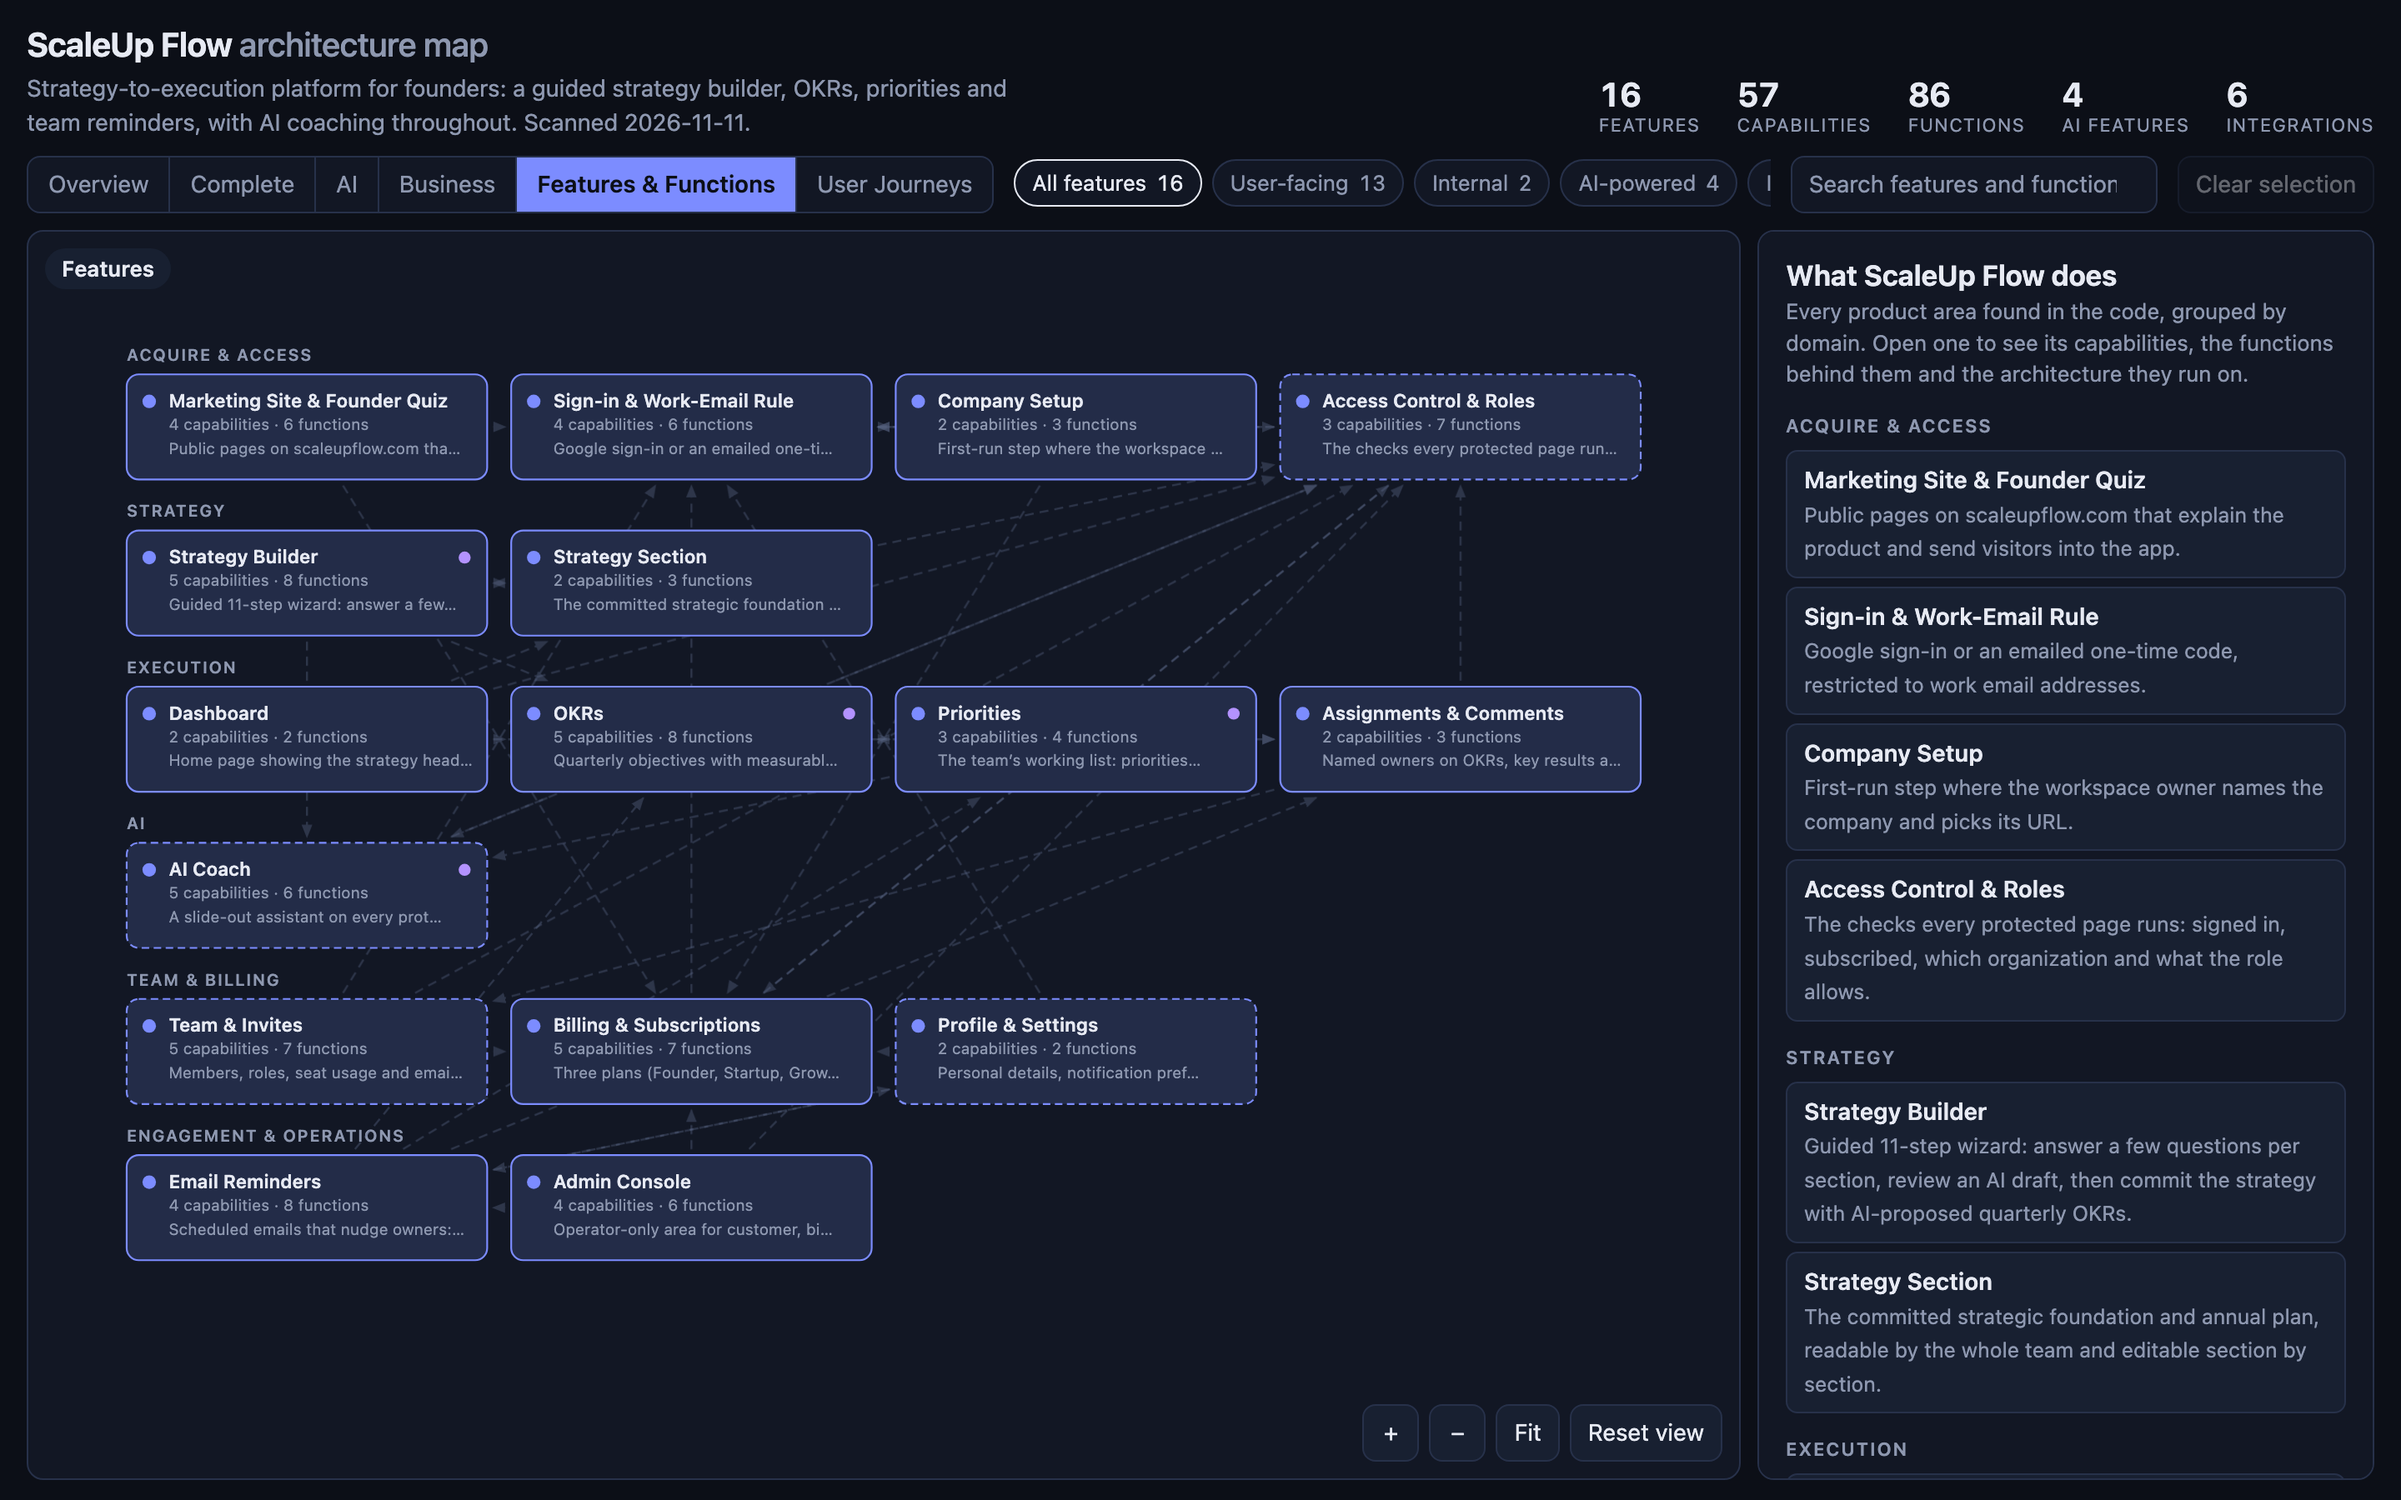
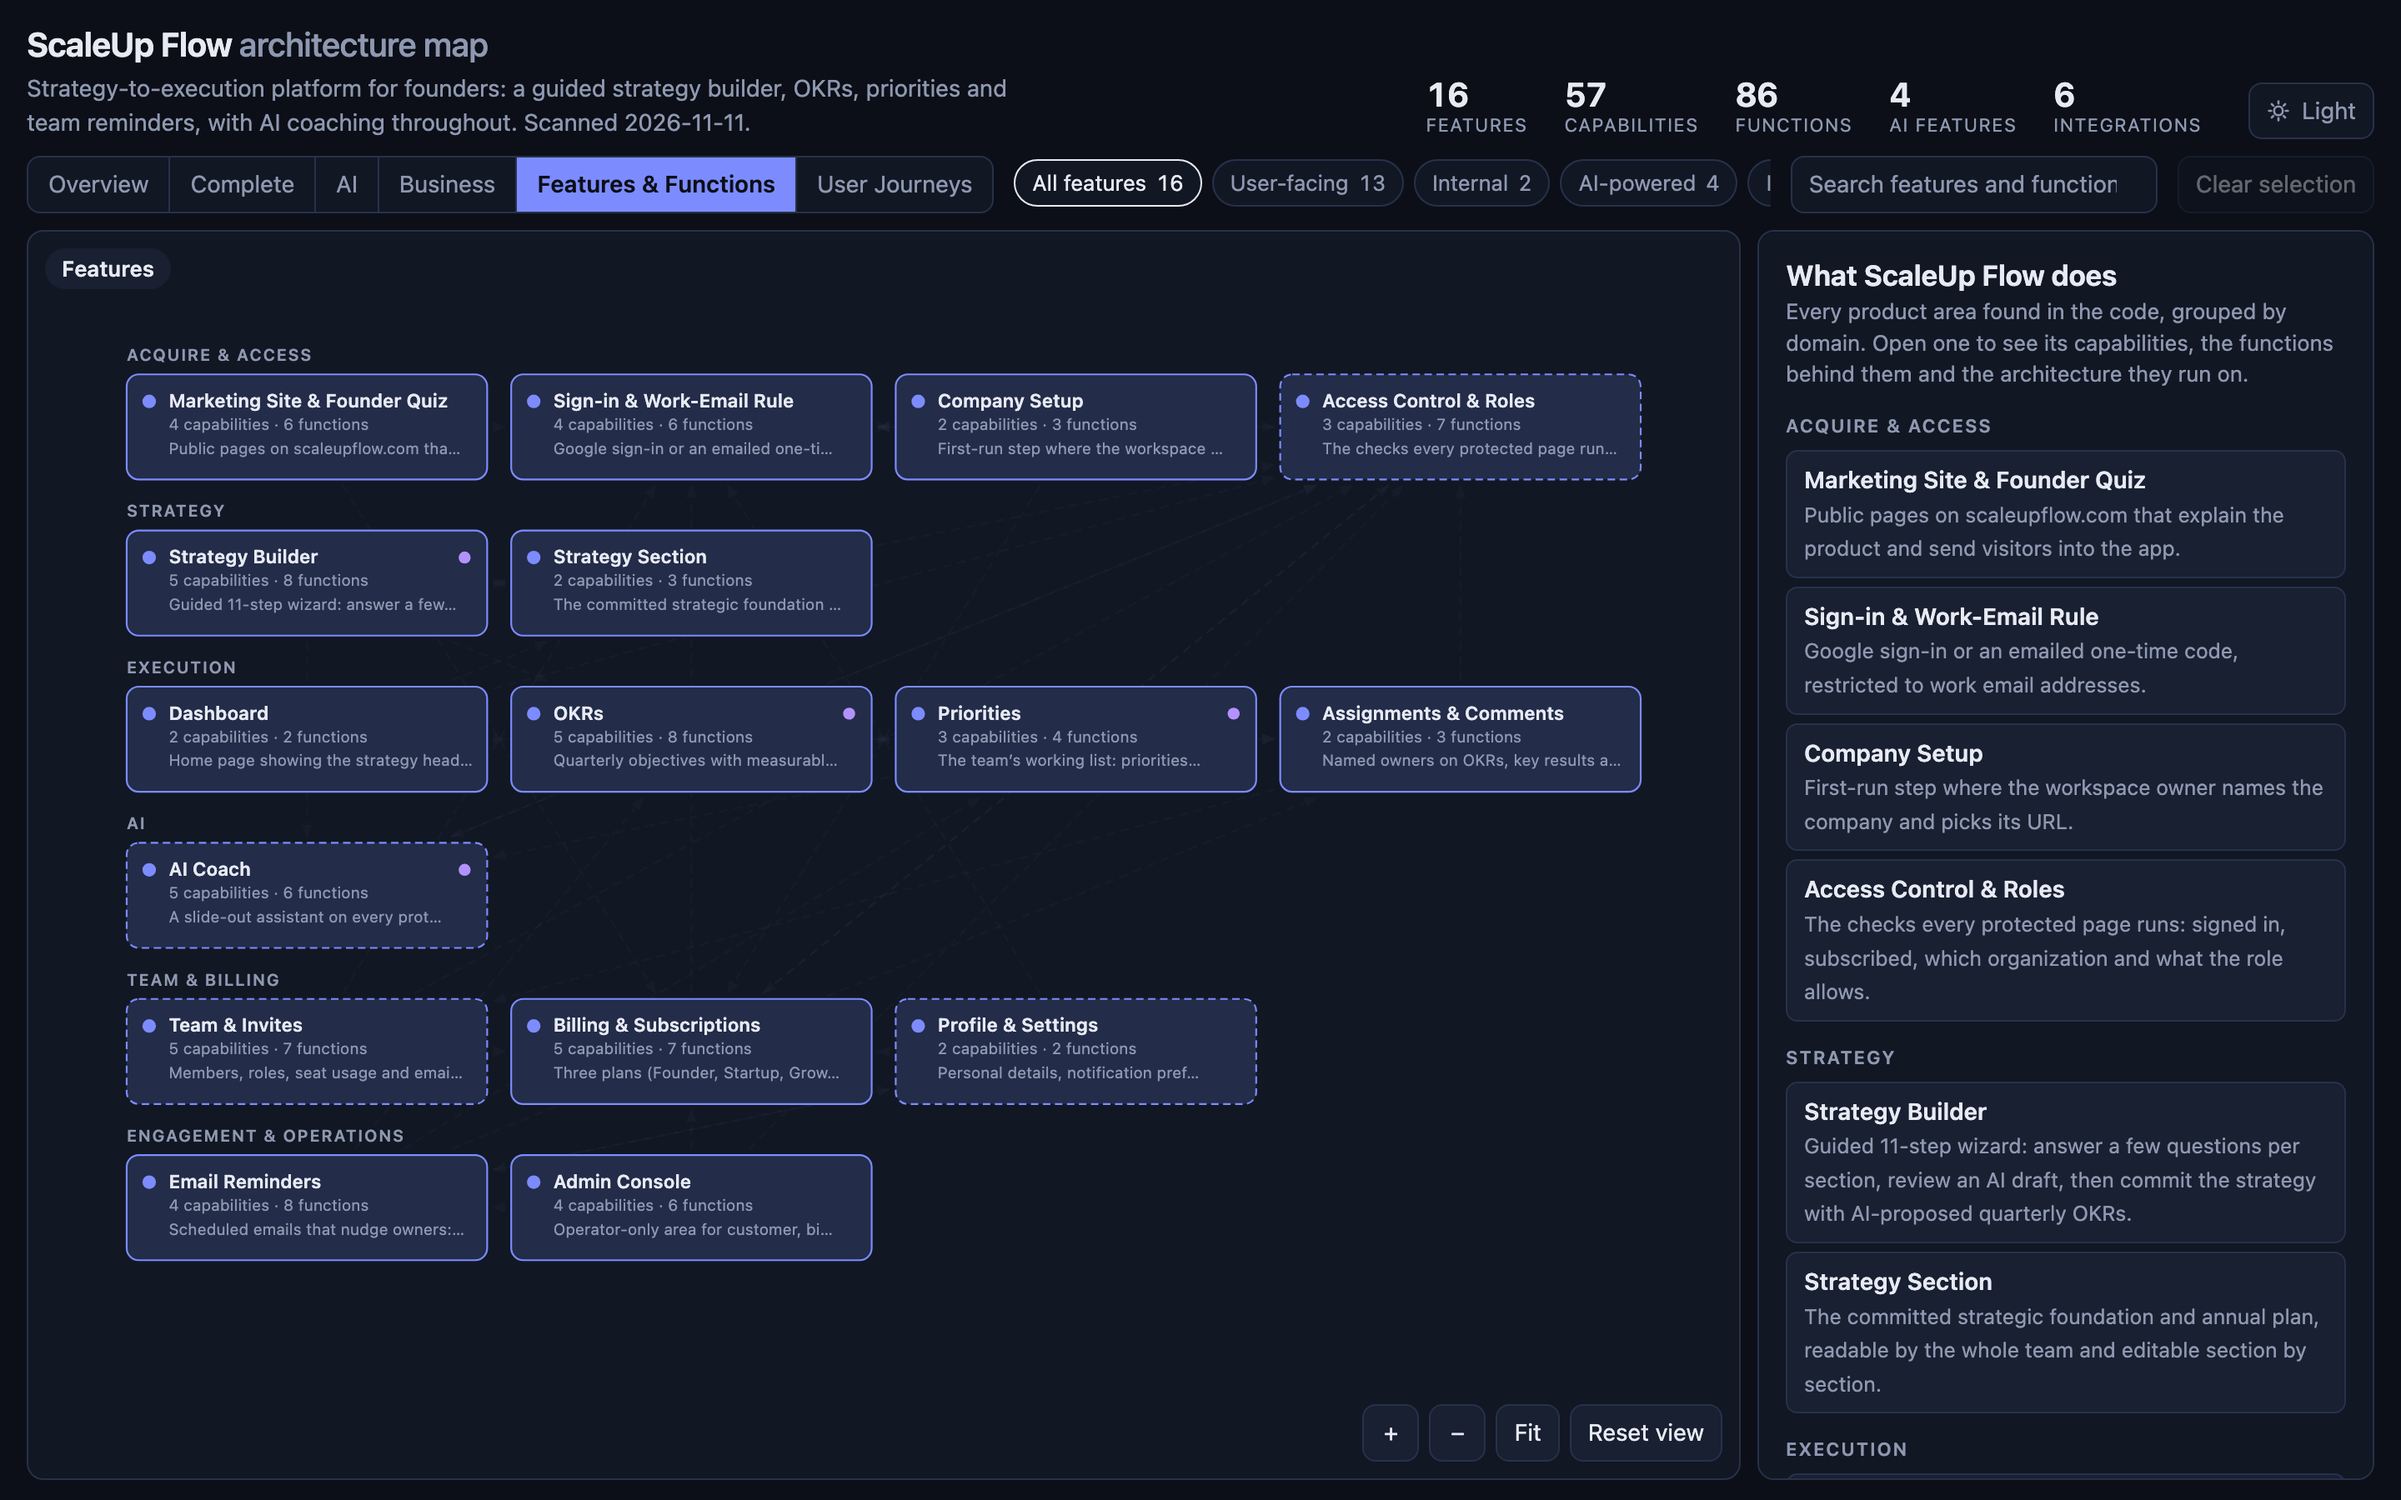
Add a light/dark switch to the explorer page
The page was dark unless the viewer's Claude theme was explicitly set
to light, and ignored the system setting. A small script at the top of
the template now picks the theme before first paint: the viewer's pick
from a new header button, then their Claude theme, then their system
setting. The pick is kept in the viewer's browser, and picking the
theme the page would show anyway clears it.

Light tokens move from :root[data-theme="light"] to
:root[data-mode="light"]; doctor and snapshot follow. The smoke test
covers the switch, and the stand-in browser gives the page its own
storage and a root element that keeps attributes. Retake the README
screenshots with the button, add a light overview, and bump the plugin
to 0.2.0.

Changed region(s): [[0.7188, 0.0311, 1.0, 0.0933], [0.6562, 0.0311, 0.6875, 0.0933], [0.5938, 0.0622, 0.625, 0.0933]]

diff --git a/plugins/architecture-explorer/template/explorer.html b/plugins/architecture-explorer/template/explorer.html
@@ -11,7 +11,8 @@
   --font:"Inter",system-ui,-apple-system,"Segoe UI",Roboto,sans-serif;
   --mono:ui-monospace,"SF Mono",Menlo,Consolas,monospace;
 }
-:root[data-theme="light"]{
+/* data-mode is set by the theme script below, from the viewer's pick, their Claude theme or their system setting. */
+:root[data-mode="light"]{
   color-scheme:light;
   --bg:#f4f6fb; --panel:#ffffff; --surface:#ffffff; --line:#d5dbe8; --fg:#161b28; --muted:#586279;
   --accent:#2d3fd4; --edge:#8a94ab; --edge-hi:#161b28;
@@ -51,6 +52,9 @@ button{cursor:pointer}
 .search::placeholder{color:var(--muted)}
 .btn{border:1px solid var(--line);background:var(--panel);color:var(--fg);border-radius:8px;padding:6px 10px;white-space:nowrap}
 .btn:hover,.pill:hover{border-color:var(--muted)}
+.themebtn{display:flex;gap:7px;align-items:center;color:var(--muted)}
+.themebtn:hover{color:var(--fg)}
+.themebtn svg{width:14px;height:14px;fill:none;stroke:currentColor;stroke-width:1.5;stroke-linecap:round;stroke-linejoin:round}
 .btn[disabled]{opacity:.4;cursor:default}
 
 .main{flex:1;min-height:0;display:grid;grid-template-columns:minmax(0,1fr) 370px;gap:10px}
@@ -230,6 +234,38 @@ textarea{font:inherit;color:inherit}
 @media (prefers-reduced-motion:reduce){.node,.edge{transition:none}}
 </style>
 
+<script>
+/* Theme. Dark unless the viewer picked one here, set a theme in Claude, or their system asks for light.
+   Runs before the page is drawn so it never flashes the wrong theme. The pick is a per-viewer convenience kept in this browser only. */
+const THEME_KEY='architecture-explorer-theme';
+const THEME_ICON={
+ light:'<svg viewBox="0 0 16 16" aria-hidden="true"><circle cx="8" cy="8" r="3"/><path d="M8 1.5v1.5M8 13v1.5M1.5 8H3M13 8h1.5M3.4 3.4l1.1 1.1M11.5 11.5l1.1 1.1M3.4 12.6l1.1-1.1M11.5 4.5l1.1-1.1"/></svg>',
+ dark:'<svg viewBox="0 0 16 16" aria-hidden="true"><path d="M13.5 9.6A5.8 5.8 0 0 1 6.4 2.5a5.8 5.8 0 1 0 7.1 7.1z"/></svg>'};
+let themePick=null;
+try{const v=localStorage.getItem(THEME_KEY);if(v==='light'||v==='dark')themePick=v}catch(e){}
+/* What the page shows when the viewer has not picked: their Claude theme if they set one, otherwise their system setting. */
+function themeAuto(){
+ const h=document.documentElement.getAttribute('data-theme');
+ return h==='light'||h==='dark'?h:matchMedia('(prefers-color-scheme: light)').matches?'light':'dark';
+}
+function themeNow(){return themePick||themeAuto()}
+function themeApply(){
+ const t=themeNow(),to=t==='dark'?'light':'dark',b=document.querySelector('#theme');
+ document.documentElement.setAttribute('data-mode',t);
+ if(b){b.innerHTML=THEME_ICON[to]+(to==='light'?'Light':'Dark');b.setAttribute('aria-label','Switch to '+to+' theme');b.title='Switch to '+to+' theme'}
+}
+/* Picking the theme the page would show anyway clears the pick, so the page goes back to following Claude and the system. */
+function themeToggle(){
+ const to=themeNow()==='dark'?'light':'dark';
+ themePick=to===themeAuto()?null:to;
+ try{if(themePick)localStorage.setItem(THEME_KEY,themePick);else localStorage.removeItem(THEME_KEY)}catch(e){}
+ themeApply();
+}
+themeApply();
+try{matchMedia('(prefers-color-scheme: light)').addEventListener('change',themeApply)}catch(e){}
+if(typeof MutationObserver!=='undefined')new MutationObserver(themeApply).observe(document.documentElement,{attributes:true,attributeFilter:['data-theme']});
+</script>
+
 <div class="app">
   <header class="top">
     <div class="id">
@@ -237,6 +273,7 @@ textarea{font:inherit;color:inherit}
       <p id="ptag"></p>
     </div>
     <ul class="stats" id="stats"></ul>
+    <button type="button" class="btn themebtn" id="theme"></button>
   </header>
 
   <div class="bar">
@@ -1204,6 +1241,7 @@ if(window.claude&&window.claude.use)window.claude.use('sample').then(fn=>{if(fn)
 /* A view with nothing to show (for example the AI view of a system that has no AI) loses its tab. */
 const VIEW_OFF=new Set(N.some(n=>n.v==='ai'||n.v==='both')?[]:['ai']);
 document.querySelectorAll('[data-view]').forEach(b=>{if(VIEW_OFF.has(b.dataset.view))b.hidden=true});
+$('#theme').addEventListener('click',themeToggle);themeApply();
 setView('over');
 let rz;window.addEventListener('resize',()=>{clearTimeout(rz);rz=setTimeout(()=>{if(isArch())fit();else xFit()},150)});
 </script>

diff --git a/plugins/architecture-explorer/skills/explorer-design-system/SKILL.md b/plugins/architecture-explorer/skills/explorer-design-system/SKILL.md
@@ -26,7 +26,7 @@ Plugin root: `${CLAUDE_PLUGIN_ROOT}`. If that text appears unexpanded, the root 
 
 ## Rules
 
-1. **Tokens, not values.** Colours come from the CSS custom properties on `:root`. Never write a literal colour in a component rule. A new colour is a new token, defined for dark on `:root` and for light under `:root[data-theme="light"]`, and added to `tokens.json`.
+1. **Tokens, not values.** Colours come from the CSS custom properties on `:root`. Never write a literal colour in a component rule. A new colour is a new token, defined for dark on `:root` and for light under `:root[data-mode="light"]`, and added to `tokens.json`.
 2. **Colour means kind.** Each component kind and step type has one colour, used the same way in every view. Do not reuse a kind colour for decoration.
 3. **One accent.** `--accent` marks the active tab, the selected block and highlighted overview lines. Nothing else.
 4. **Both themes.** Dark is the default; light must be designed, not inverted. Check both.

diff --git a/plugins/architecture-explorer/design-system/DESIGN.md b/plugins/architecture-explorer/design-system/DESIGN.md
@@ -15,7 +15,9 @@ The explorer is a working tool for reading a system, not a poster. Everything be
 
 ## Colour
 
-Dark is the default theme. Light applies when the viewer's Claude theme is set to light (`:root[data-theme="light"]`). Every colour is a token defined in both.
+Dark is the default theme. Every colour is a token defined in both dark and light.
+
+The page decides which theme to show in this order: the viewer's pick from the Light/Dark button in the header, then their Claude theme if they set one, then their system setting. A small script at the top of the page sets `data-mode` on the root element before anything is drawn, and the light tokens live under `:root[data-mode="light"]`. The pick is remembered in the viewer's browser only. Picking the theme the page would show anyway clears the pick, so the page goes back to following Claude and the system.
 
 ### Surfaces and text
 

diff --git a/plugins/architecture-explorer/README.md b/plugins/architecture-explorer/README.md
@@ -24,6 +24,10 @@ These are from a map of ScaleUp Flow, a NEXLOR product.
 
 ![Overview of ScaleUp Flow as 14 building blocks in three columns](../../docs/screenshots/architecture-explorer/overview.png)
 
+**Light and dark**: the page follows the viewer's Claude theme or system setting, and the button at the top right switches between the two.
+
+![The same overview in the light theme](../../docs/screenshots/architecture-explorer/overview-light.png)
+
 **Complete**: every component and relationship.
 
 ![Complete view with all 60 components and the flows that can be traced](../../docs/screenshots/architecture-explorer/complete.png)
